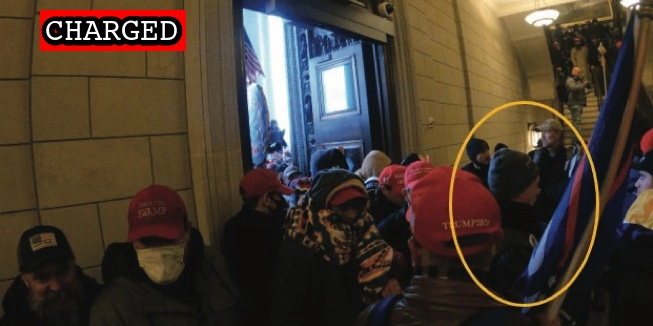
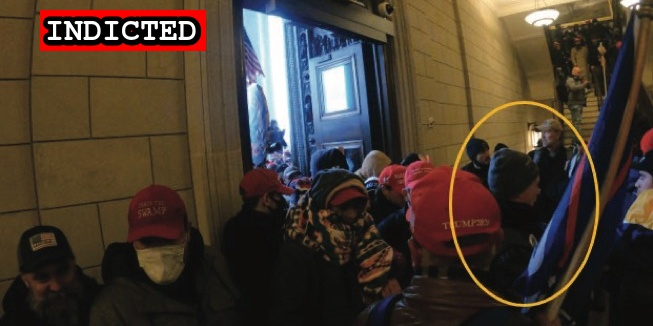
Latst import

Changed region(s): [[0.0613, 0.0307, 0.3369, 0.184]]

diff --git a/docs/_suspects/james-rahm-jr.md b/docs/_suspects/james-rahm-jr.md
@@ -3,13 +3,14 @@ name: James Rahm Jr
 lastName: Rahm Jr
 aka:
 residence: New Jersey
-status: Charged
+status: Indicted
 date: 2021-03-16
 charged: 2021-03-16
-indicted:
+indicted: 2021-02-24
 convicted:
 sentenced:
 dismissed:
+deceased:
 age: 61
 occupation:
 affiliations:
@@ -27,7 +28,11 @@ description: Click for latest case details. Suspects innocent until proven guilt
 author: seditiontrack
 layout: suspect
 published: true
+caseNumber:
+videos:
+charges:
 ---
 
 - [News Report](https://www.nj.com/atlantic/2021/04/father-and-son-from-nj-were-at-capitol-riot-together-feds-say.html)
 - [Statement of Facts](https://extremism.gwu.edu/sites/g/files/zaxdzs2191/f/James%20Douglas%20Rahm%20III%20Statement%20of%20Facts.pdf)
+- [Indictment](https://extremism.gwu.edu/sites/g/files/zaxdzs2191/f/James%20Douglas%20Rahm%20Jr%20Indictment.pdf)

diff --git a/docs/_suspects/michael-adams.md b/docs/_suspects/michael-adams.md
@@ -10,6 +10,7 @@ indicted:
 convicted:
 sentenced:
 dismissed:
+deceased:
 age:
 occupation:
 affiliations:
@@ -27,7 +28,10 @@ description: Click for latest case details. Suspects innocent until proven guilt
 author: seditiontrack
 layout: suspect
 published: true
+caseNumber:
+videos:
+charges:
 ---
-
 - [News Report](https://www.yahoo.com/entertainment/active-duty-marine-charged-fighting-191450996.html)
 - [Statement of Facts](https://extremism.gwu.edu/sites/g/files/zaxdzs2191/f/Michael%20Adams%20Statement%20of%20Facts.pdf)
+- [Information](https://extremism.gwu.edu/sites/g/files/zaxdzs2191/f/Michael%20Adams%20Information.pdf)

diff --git a/docs/_suspects/robert-ballesteros.md b/docs/_suspects/robert-ballesteros.md
@@ -29,6 +29,9 @@ author: seditiontrack
 layout: suspect
 published: true
 caseNumber: 1:21-mj-132
+videos:
+charges:
 ---
 - [News Report](https://www.lohud.com/story/news/crime/2021/03/17/mahopac-man-charged-capitol-riot/4730583001/)
 - [Statement of Facts](https://www.justice.gov/usao-dc/case-multi-defendant/file/1378371/download)
+- [Information](https://extremism.gwu.edu/sites/g/files/zaxdzs2191/f/Robert%20Ballesteros%20Information.pdf)
